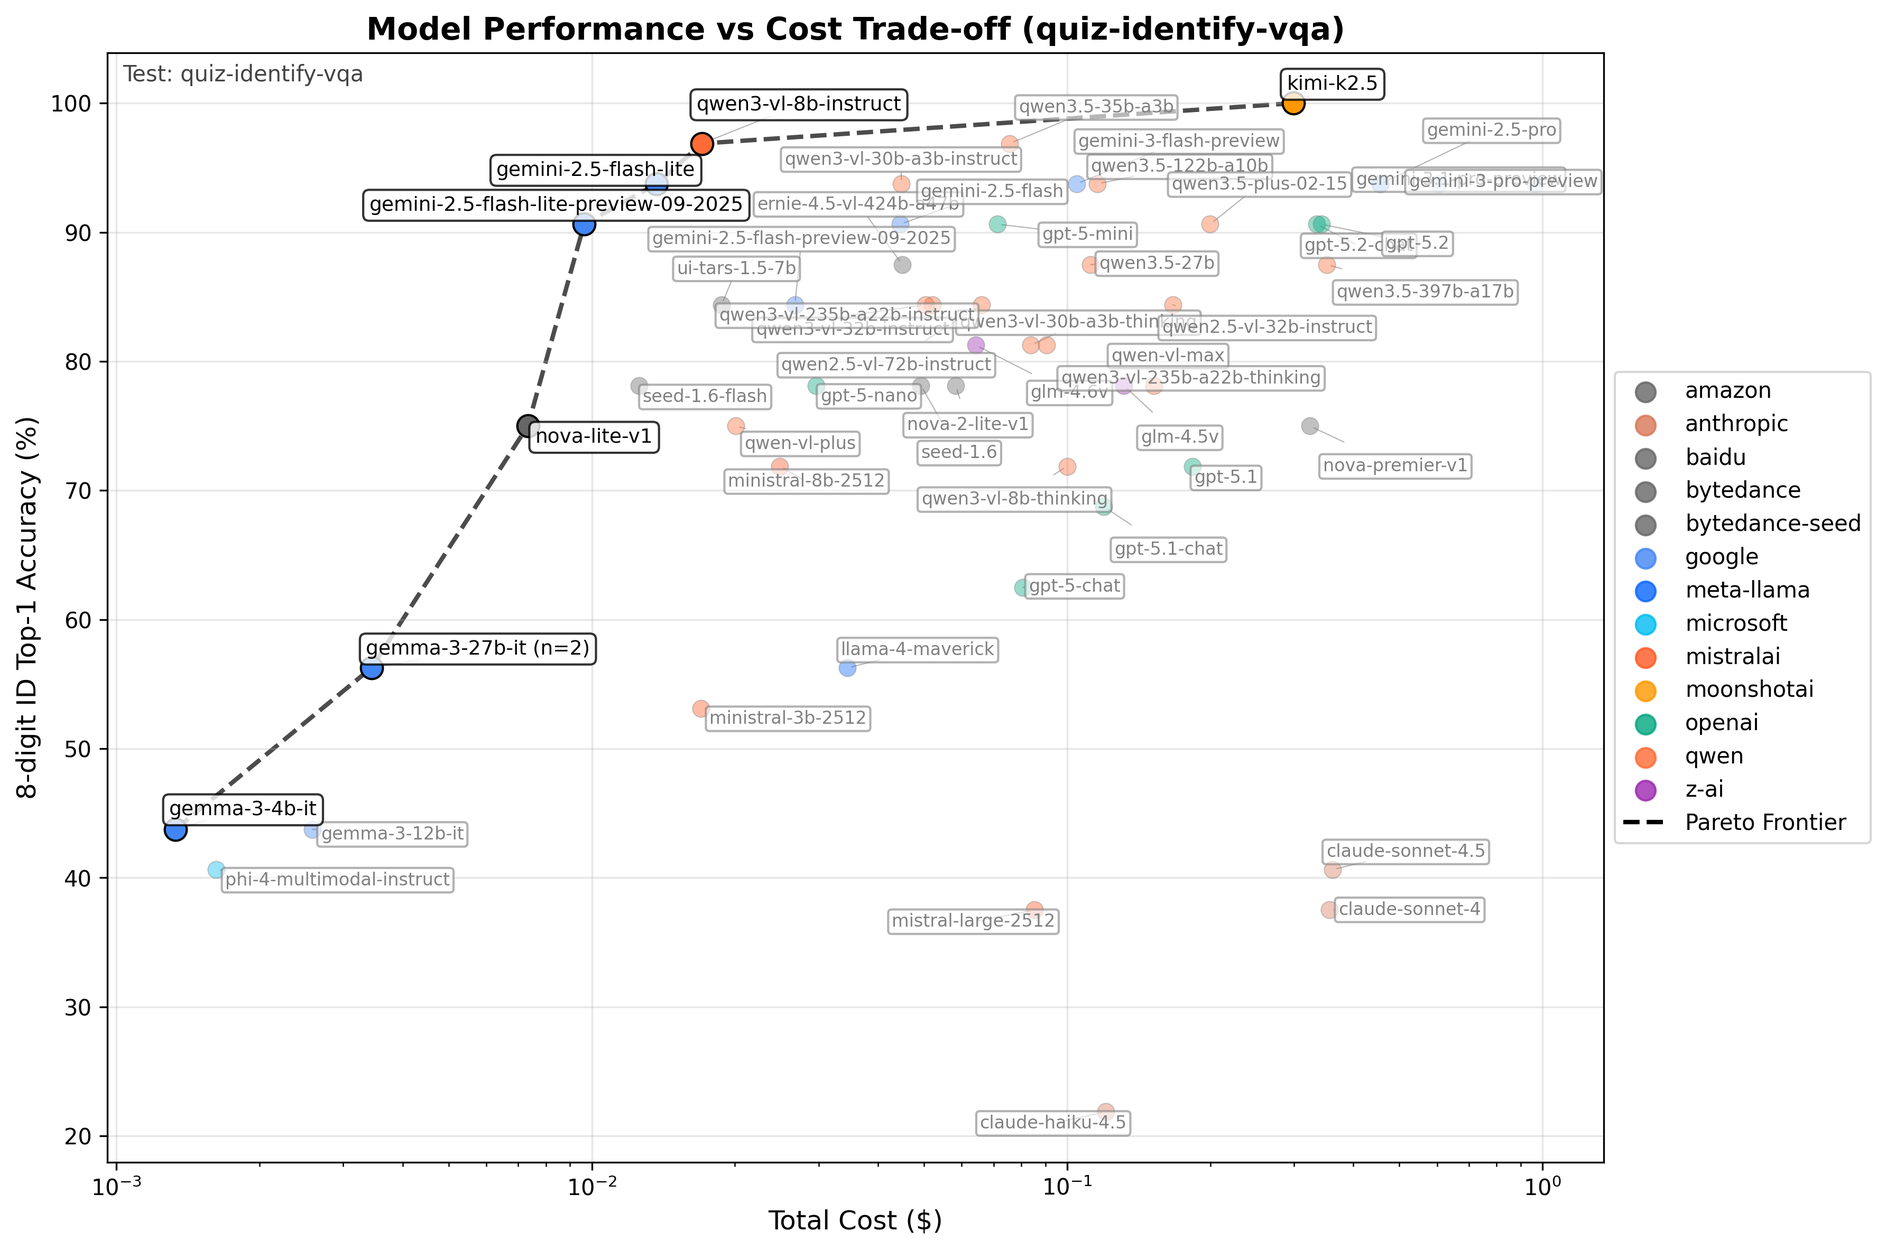
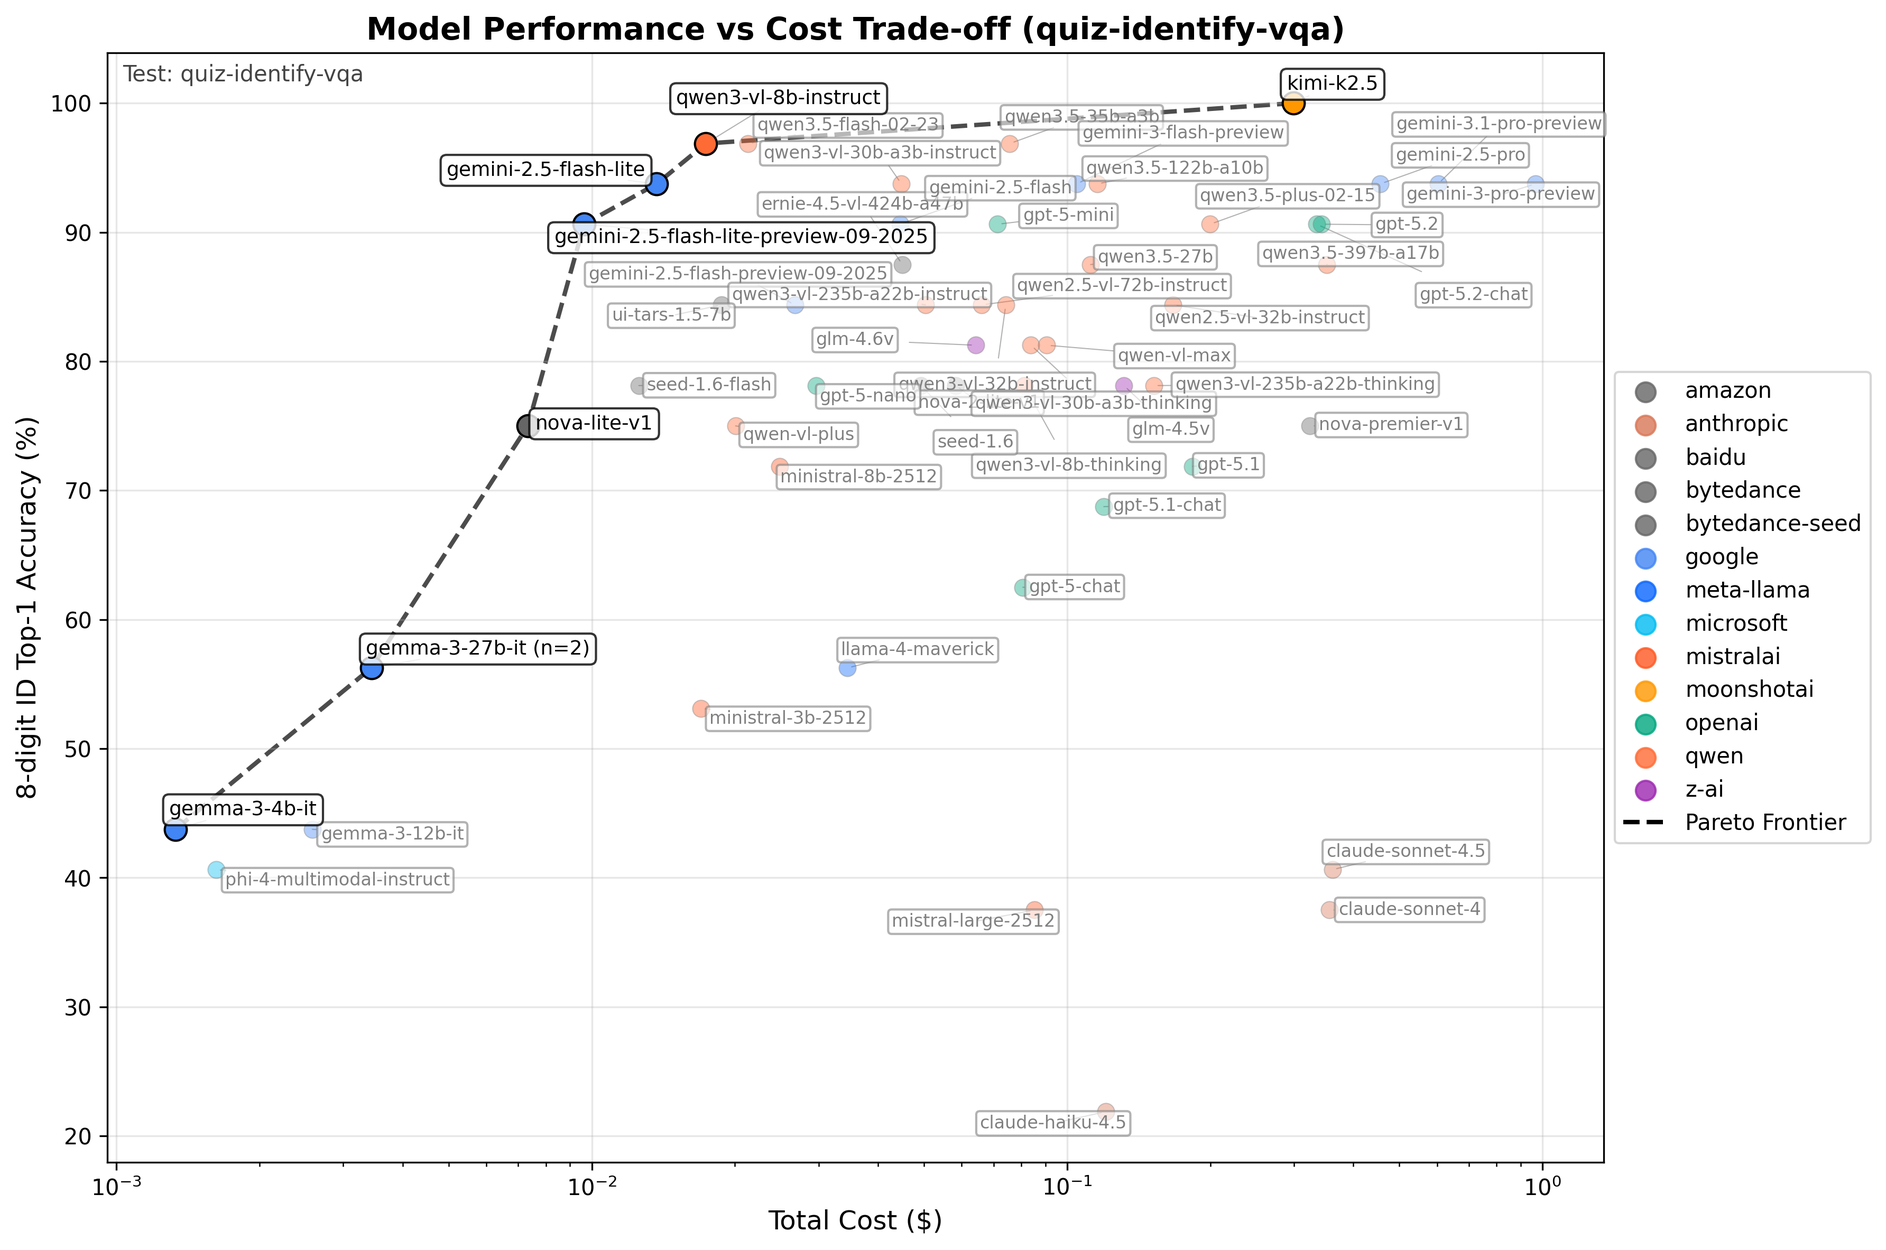
Refresh benchmark docs and Pareto artifacts

Changed region(s): [[0.1867, 0.0617, 0.84, 0.4628]]

diff --git a/BENCHMARKS.md b/BENCHMARKS.md
@@ -39,16 +39,16 @@ All VLM runs use the following consistent configuration:
 
 ## Complete Results
 
-| **Metric** | **OpenCV+CNN** | **qwen**<br>qwen3.5-35b-a3b | **qwen**<br>qwen3.5-27b | **qwen**<br>qwen3.5-122b-a10b | **qwen**<br>qwen3.5-397b-a17b | **qwen**<br>qwen3.5-plus-02-15 | **qwen**<br>qwen2.5-vl-72b-instruct | **qwen**<br>qwen-vl-plus | **qwen**<br>qwen3-vl-8b-instruct | **qwen**<br>qwen3-vl-32b-instruct | **qwen**<br>qwen3-vl-8b-thinking | **qwen**<br>qwen3-vl-30b-a3b-instruct | **qwen**<br>qwen3-vl-30b-a3b-thinking | **qwen**<br>qwen-vl-max | **qwen**<br>qwen3-vl-235b-a22b-thinking | **qwen**<br>qwen3-vl-235b-a22b-instruct | **qwen**<br>qwen2.5-vl-32b-instruct | **google**<br>gemini-3.1-pro-preview | **google**<br>gemma-3-4b-it | **google**<br>gemini-2.5-flash-lite-preview-09-2025 | **google**<br>gemini-2.5-flash-lite | **google**<br>gemma-3-27b-it | **google**<br>gemma-3-12b-it | **google**<br>gemini-3-flash-preview | **google**<br>gemini-3-pro-preview | **google**<br>gemini-2.5-flash-preview-09-2025 | **google**<br>gemini-2.5-pro | **google**<br>gemini-2.5-flash | **baidu**<br>ernie-4.5-vl-424b-a47b | **amazon**<br>nova-lite-v1 | **amazon**<br>nova-2-lite-v1 | **amazon**<br>nova-premier-v1 | **moonshotai**<br>kimi-k2.5 | **moonshotai**<br>kimi-vl-a3b-thinking:free | **bytedance-seed**<br>seed-1.6 | **bytedance-seed**<br>seed-1.6-flash | **mistralai**<br>ministral-8b-2512 | **mistralai**<br>ministral-3b-2512 | **mistralai**<br>mistral-large-2512 | **openai**<br>gpt-5.2-chat | **openai**<br>gpt-5.2 | **openai**<br>gpt-5.1-chat | **openai**<br>gpt-5.1 | **openai**<br>gpt-5-chat | **openai**<br>gpt-5-mini | **openai**<br>gpt-5-nano | **z-ai**<br>glm-4.6v | **z-ai**<br>glm-4.5v | **anthropic**<br>claude-haiku-4.5 | **anthropic**<br>claude-sonnet-4.5 | **anthropic**<br>claude-sonnet-4 | **microsoft**<br>phi-4-multimodal-instruct | **bytedance**<br>ui-tars-1.5-7b | **meta-llama**<br>llama-4-maverick |
-|:---|:---|:---|:---|:---|:---|:---|:---|:---|:---|:---|:---|:---|:---|:---|:---|:---|:---|:---|:---|:---|:---|:---|:---|:---|:---|:---|:---|:---|:---|:---|:---|:---|:---|:---|:---|:---|:---|:---|:---|:---|:---|:---|:---|:---|:---|:---|:---|:---|:---|:---|:---|:---|:---|:---|
-| LLM model size | N/A | 35A3 | 27B | 122A10 | 397A17 | ?? | 72B | ?? | 8B | 32B | 8B | 30A3 | 30A3 | ?? | 235A22 | 235A22 | 32B | ?? | 4B | ?? | ?? | 27B | 12B | ?? | ?? | ?? | ?? | ?? | 424A47 | ?? | ?? | ?? | 1000A32 | 16A3 | ?? | ?? | 8B | 3B | 675A41 | ?? | ?? | ?? | ?? | ?? | ?? | ?? | 106B | 106A12 | ?? | ?? | ?? | 5.6B | 7B | 400A17 |
-| Open-weights | N/A | Yes | Yes | Yes | Yes | No | Yes | No | Yes | Yes | Yes | Yes | Yes | No | Yes | Yes | Yes | No | Yes | No | No | Yes | Yes | No | No | No | No | No | Yes | No | No | No | Yes | Yes | No | No | Yes | Yes | Yes | No | No | No | No | No | No | No | Yes | Yes | No | No | No | Yes | Yes | Yes |
-| digit_top1 | 85.16% | 99.61% | 98.44% | 99.22% | 98.05% | 98.83% | 96.48% | 96.88% | 99.61% | 97.27% | 92.19% | 99.22% | 97.27% | 97.27% | 94.53% | 97.66% | 96.09% | 99.22% | 72.27% | 98.05% | 99.22% | 84.18% (n=2) | 75.39% | 99.22% | 99.22% | 98.05% | 99.22% | 98.83% | 98.05% | 93.36% | 97.27% | 94.53% | **100.00%** | 85.94% | 96.48% | 95.70% | 89.84% | 83.59% | 78.12% | 98.44% | 98.44% | 91.80% | 92.58% | 89.84% | 98.83% | 96.48% | 94.92% | 93.36% | 74.22% | 82.81% | 84.77% | 71.48% | 96.48% | 89.84% |
-| 8-digit id_top1 | ?? | 96.88% | 87.50% | 93.75% | 87.50% | 90.62% | 84.38% | 75.00% | 96.88% | 84.38% | 71.88% | 93.75% | 81.25% | 81.25% | 78.12% | 84.38% | 84.38% | 93.75% | 43.75% | 90.62% | 93.75% | 56.25% (n=2) | 43.75% | 93.75% | 93.75% | 84.38% | 93.75% | 90.62% | 87.50% | 75.00% | 78.12% | 75.00% | **100.00%** | 50.00% | 78.12% | 78.12% | 71.88% | 53.12% | 37.50% | 90.62% | 90.62% | 68.75% | 71.88% | 62.50% | 90.62% | 78.12% | 81.25% | 78.12% | 21.88% | 40.62% | 37.50% | 40.62% | 84.38% | 56.25% |
-| lastname_top1 | N/A | **100.00%** | 96.88% | 96.88% | **100.00%** | 96.88% | **100.00%** | **100.00%** | **100.00%** | 96.88% | 90.62% | 93.75% | 96.88% | 96.88% | **100.00%** | 96.88% | **100.00%** | **100.00%** | 93.75% | **100.00%** | 96.88% | **100.00% (n=2)** | **100.00%** | **100.00%** | **100.00%** | **100.00%** | **100.00%** | **100.00%** | 93.75% | 87.50% | **100.00%** | **100.00%** | **100.00%** | 96.88% | 93.75% | 96.88% | 93.75% | 90.62% | 87.50% | 96.88% | 96.88% | **100.00%** | **100.00%** | **100.00%** | **100.00%** | 93.75% | **100.00%** | **100.00%** | 93.75% | 96.88% | **100.00%** | **100.00%** | 96.88% | 96.88% |
-| ID Avg d_Lev | N/A | 0.0312 | 0.1250 | 0.0625 | 0.1562 | 0.0938 | 0.1562 | 0.2500 | 0.0312 | 0.2188 | 0.5000 | 0.0625 | 0.2188 | 0.2188 | 0.4688 | 0.1875 | 0.1562 | 0.0625 | 1.1875 | 0.0938 | 0.0625 | 0.9375 (n=2) | 0.9688 | 0.0625 | 0.0625 | 0.1562 | 0.0625 | 0.0938 | 0.1562 | 0.3125 | 0.2188 | 0.2500 | **0.0000** | 0.9062 | 0.2812 | 0.2812 | 0.4062 | 0.5312 | 1.2188 | 0.1250 | 0.1250 | 0.4375 | 0.5938 | 0.5312 | 0.0938 | 0.2188 | 0.1875 | 0.2188 | 1.4062 | 1.0000 | 1.0938 | 1.2188 | 0.1562 | 0.5312 |
-| Lastname Avg d_Lev | N/A | **0.0000** | 0.0312 | 0.0312 | **0.0000** | 0.0312 | **0.0000** | **0.0000** | **0.0000** | 0.0312 | 0.2812 | 0.1875 | 0.0312 | 0.0312 | **0.0000** | 0.0312 | **0.0000** | **0.0000** | 0.0938 | **0.0000** | 0.0312 | **0.0000 (n=2)** | **0.0000** | **0.0000** | **0.0000** | **0.0000** | **0.0000** | **0.0000** | 0.0938 | 0.2500 | **0.0000** | **0.0000** | **0.0000** | 0.0312 | 0.1875 | 0.0312 | 0.0938 | 0.2188 | 0.3750 | 0.0625 | 0.1562 | **0.0000** | **0.0000** | **0.0000** | **0.0000** | 0.0625 | **0.0000** | **0.0000** | 0.2188 | 0.0625 | **0.0000** | **0.0000** | 0.0312 | 0.0312 |
-| Docs detected | 90.62% (29/32) | **100.00% (32/32)** | **100.00% (32/32)** | **100.00% (32/32)** | **100.00% (32/32)** | **100.00% (32/32)** | **100.00% (32/32)** | **100.00% (32/32)** | **100.00% (32/32)** | **100.00% (32/32)** | **100.00% (32/32)** | **100.00% (32/32)** | **100.00% (32/32)** | **100.00% (32/32)** | **100.00% (32/32)** | **100.00% (32/32)** | **100.00% (32/32)** | **100.00% (32/32)** | **100.00% (32/32)** | **100.00% (32/32)** | **100.00% (32/32)** | **100.00% (32/32) (n=2)** | **100.00% (32/32)** | **100.00% (32/32)** | **100.00% (32/32)** | **100.00% (32/32)** | **100.00% (32/32)** | **100.00% (32/32)** | **100.00% (32/32)** | **100.00% (32/32)** | **100.00% (32/32)** | **100.00% (32/32)** | **100.00% (32/32)** | **100.00% (32/32)** | **100.00% (32/32)** | **100.00% (32/32)** | **100.00% (32/32)** | **100.00% (32/32)** | **100.00% (32/32)** | **100.00% (32/32)** | **100.00% (32/32)** | **100.00% (32/32)** | **100.00% (32/32)** | **100.00% (32/32)** | **100.00% (32/32)** | **100.00% (32/32)** | **100.00% (32/32)** | **100.00% (32/32)** | **100.00% (32/32)** | **100.00% (32/32)** | **100.00% (32/32)** | **100.00% (32/32)** | **100.00% (32/32)** | **100.00% (32/32)** |
-| Runtime | **~1 second** | 19 seconds | 1.7 minutes | 39 seconds | 9.6 minutes | 4.0 minutes | 19 seconds | 10 seconds | 12 seconds | 2.6 minutes | 14.4 minutes | 2.3 minutes | 6.3 minutes | 4.5 minutes | 13.9 minutes | 4.5 minutes | 2.3 minutes | 1.1 minutes | 14 seconds | 11 seconds | 11 seconds | 17 seconds (n=2) | 10 seconds | 8 seconds | 26.4 minutes | 4.4 minutes | 8.0 minutes | 2.7 minutes | 51 seconds | 14 seconds | 3.5 minutes | 6.4 minutes | 1.6 minutes | 9.5 minutes | 57 seconds | 44 seconds | 14 seconds | 18 seconds | 23 seconds | 53 seconds | 57 seconds | 5.2 minutes | 8.9 minutes | 2.8 minutes | 8.3 minutes | 10.5 minutes | 6.6 minutes | 6.2 minutes | 5.0 minutes | 5.4 minutes | 3.5 minutes | 2.1 minutes | 1.8 minutes | 2.0 minutes |
-| Cost per image | **$0.00** | $0.001184 | $0.001751 | $0.001808 | $0.005496 | $0.003124 | $0.001033 | $0.000314 | $0.000266 | $0.000814 | $0.001563 | $0.000700 | $0.001311 | $0.001415 | $0.002376 | $0.000786 | $0.002605 | $0.009424 | $0.000021 | $0.000151 | $0.000214 | $0.000054 (n=2) | $0.000040 | $0.001636 | $0.015111 | $0.000418 | $0.007125 | $0.000695 | $0.000703 | $0.000115 | $0.000911 | $0.005061 | $0.004679 | **$0.000000** | $0.000770 | $0.000196 | $0.000388 | $0.000265 | $0.001335 | $0.005232 | $0.005352 | $0.001866 | $0.002870 | $0.001260 | $0.001115 | $0.000463 | $0.001004 | $0.002057 | $0.001882 | $0.005646 | $0.005567 | $0.000025 | $0.000293 | $0.000539 |
-| Total cost | **$0.00** | $0.0758 | $0.1120 | $0.1157 | $0.3518 | $0.1999 | $0.0661 | $0.0201 | $0.0171 | $0.0521 | $0.1000 | $0.0448 | $0.0839 | $0.0906 | $0.1521 | $0.0503 | $0.1667 | $0.6031 | $0.0013 | $0.0096 | $0.0137 | $0.0034 (n=2) | $0.0026 | $0.1047 | $0.9671 | $0.0267 | $0.4560 | $0.0445 | $0.0450 | $0.0073 | $0.0583 | $0.3239 | $0.2995 | **$0.0000** | $0.0492 | $0.0126 | $0.0248 | $0.0170 | $0.0854 | $0.3348 | $0.3426 | $0.1195 | $0.1837 | $0.0807 | $0.0714 | $0.0297 | $0.0642 | $0.1316 | $0.1205 | $0.3614 | $0.3563 | $0.0016 | $0.0187 | $0.0345 |
+| **Metric** | **OpenCV+CNN** | **qwen**<br>qwen3-vl-8b-instruct | **qwen**<br>qwen3-vl-8b-thinking | **qwen**<br>qwen3-vl-32b-instruct | **qwen**<br>qwen3.5-flash-02-23 | **qwen**<br>qwen3.5-35b-a3b | **qwen**<br>qwen3.5-27b | **qwen**<br>qwen3.5-122b-a10b | **qwen**<br>qwen3.5-397b-a17b | **qwen**<br>qwen3.5-plus-02-15 | **qwen**<br>qwen2.5-vl-72b-instruct | **qwen**<br>qwen-vl-plus | **qwen**<br>qwen3-vl-30b-a3b-instruct | **qwen**<br>qwen3-vl-30b-a3b-thinking | **qwen**<br>qwen-vl-max | **qwen**<br>qwen3-vl-235b-a22b-thinking | **qwen**<br>qwen3-vl-235b-a22b-instruct | **qwen**<br>qwen2.5-vl-32b-instruct | **google**<br>gemini-3.1-pro-preview | **google**<br>gemma-3-4b-it | **google**<br>gemini-2.5-flash-lite-preview-09-2025 | **google**<br>gemini-2.5-flash-lite | **google**<br>gemma-3-27b-it | **google**<br>gemma-3-12b-it | **google**<br>gemini-3-flash-preview | **google**<br>gemini-3-pro-preview | **google**<br>gemini-2.5-flash-preview-09-2025 | **google**<br>gemini-2.5-pro | **google**<br>gemini-2.5-flash | **baidu**<br>ernie-4.5-vl-424b-a47b | **amazon**<br>nova-lite-v1 | **amazon**<br>nova-2-lite-v1 | **amazon**<br>nova-premier-v1 | **moonshotai**<br>kimi-k2.5 | **moonshotai**<br>kimi-vl-a3b-thinking:free | **bytedance-seed**<br>seed-1.6 | **bytedance-seed**<br>seed-1.6-flash | **mistralai**<br>ministral-8b-2512 | **mistralai**<br>ministral-3b-2512 | **mistralai**<br>mistral-large-2512 | **openai**<br>gpt-5.2-chat | **openai**<br>gpt-5.2 | **openai**<br>gpt-5.1-chat | **openai**<br>gpt-5.1 | **openai**<br>gpt-5-chat | **openai**<br>gpt-5-mini | **openai**<br>gpt-5-nano | **z-ai**<br>glm-4.6v | **z-ai**<br>glm-4.5v | **anthropic**<br>claude-haiku-4.5 | **anthropic**<br>claude-sonnet-4.5 | **anthropic**<br>claude-sonnet-4 | **microsoft**<br>phi-4-multimodal-instruct | **bytedance**<br>ui-tars-1.5-7b | **meta-llama**<br>llama-4-maverick |
+|:---|:---|:---|:---|:---|:---|:---|:---|:---|:---|:---|:---|:---|:---|:---|:---|:---|:---|:---|:---|:---|:---|:---|:---|:---|:---|:---|:---|:---|:---|:---|:---|:---|:---|:---|:---|:---|:---|:---|:---|:---|:---|:---|:---|:---|:---|:---|:---|:---|:---|:---|:---|:---|:---|:---|:---|
+| LLM model size | N/A | 8B | 8B | 32B | ?? | 35A3 | 27B | 122A10 | 397A17 | ?? | 72B | ?? | 30A3 | 30A3 | ?? | 235A22 | 235A22 | 32B | ?? | 4B | ?? | ?? | 27B | 12B | ?? | ?? | ?? | ?? | ?? | 424A47 | ?? | ?? | ?? | 1000A32 | 16A3 | ?? | ?? | 8B | 3B | 675A41 | ?? | ?? | ?? | ?? | ?? | ?? | ?? | 106B | 106A12 | ?? | ?? | ?? | 5.6B | 7B | 400A17 |
+| Open-weights | N/A | Yes | Yes | Yes | No | Yes | Yes | Yes | Yes | No | Yes | No | Yes | Yes | No | Yes | Yes | Yes | No | Yes | No | No | Yes | Yes | No | No | No | No | No | Yes | No | No | No | Yes | Yes | No | No | Yes | Yes | Yes | No | No | No | No | No | No | No | Yes | Yes | No | No | No | Yes | Yes | Yes |
+| digit_top1 | 85.16% | 99.61% | 96.09% | 97.27% | 99.61% | 99.61% | 98.44% | 99.22% | 98.05% | 98.83% | 96.48% | 96.88% | 99.22% | 97.27% | 97.27% | 94.53% | 97.66% | 96.09% | 99.22% | 72.27% | 98.05% | 99.22% | 84.18% (n=2) | 75.39% | 99.22% | 99.22% | 98.05% | 99.22% | 98.83% | 98.05% | 93.36% | 97.27% | 94.53% | **100.00%** | 85.94% | 96.48% | 95.70% | 89.84% | 83.59% | 78.12% | 98.44% | 98.44% | 91.80% | 92.58% | 89.84% | 98.83% | 96.48% | 94.92% | 93.36% | 74.22% | 82.81% | 84.77% | 71.48% | 96.48% | 89.84% |
+| 8-digit id_top1 | ?? | 96.88% | 78.12% | 84.38% | 96.88% | 96.88% | 87.50% | 93.75% | 87.50% | 90.62% | 84.38% | 75.00% | 93.75% | 81.25% | 81.25% | 78.12% | 84.38% | 84.38% | 93.75% | 43.75% | 90.62% | 93.75% | 56.25% (n=2) | 43.75% | 93.75% | 93.75% | 84.38% | 93.75% | 90.62% | 87.50% | 75.00% | 78.12% | 75.00% | **100.00%** | 50.00% | 78.12% | 78.12% | 71.88% | 53.12% | 37.50% | 90.62% | 90.62% | 68.75% | 71.88% | 62.50% | 90.62% | 78.12% | 81.25% | 78.12% | 21.88% | 40.62% | 37.50% | 40.62% | 84.38% | 56.25% |
+| lastname_top1 | N/A | **100.00%** | 93.75% | 96.88% | **100.00%** | **100.00%** | 96.88% | 96.88% | **100.00%** | 96.88% | **100.00%** | **100.00%** | 93.75% | 96.88% | 96.88% | **100.00%** | 96.88% | **100.00%** | **100.00%** | 93.75% | **100.00%** | 96.88% | **100.00% (n=2)** | **100.00%** | **100.00%** | **100.00%** | **100.00%** | **100.00%** | **100.00%** | 93.75% | 87.50% | **100.00%** | **100.00%** | **100.00%** | 96.88% | 93.75% | 96.88% | 93.75% | 90.62% | 87.50% | 96.88% | 96.88% | **100.00%** | **100.00%** | **100.00%** | **100.00%** | 93.75% | **100.00%** | **100.00%** | 93.75% | 96.88% | **100.00%** | **100.00%** | 96.88% | 96.88% |
+| ID Avg d_Lev | N/A | 0.0312 | 0.2500 | 0.2188 | 0.0312 | 0.0312 | 0.1250 | 0.0625 | 0.1562 | 0.0938 | 0.1562 | 0.2500 | 0.0625 | 0.2188 | 0.2188 | 0.4688 | 0.1875 | 0.1562 | 0.0625 | 1.1875 | 0.0938 | 0.0625 | 0.9375 (n=2) | 0.9688 | 0.0625 | 0.0625 | 0.1562 | 0.0625 | 0.0938 | 0.1562 | 0.3125 | 0.2188 | 0.2500 | **0.0000** | 0.9062 | 0.2812 | 0.2812 | 0.4062 | 0.5312 | 1.2188 | 0.1250 | 0.1250 | 0.4375 | 0.5938 | 0.5312 | 0.0938 | 0.2188 | 0.1875 | 0.2188 | 1.4062 | 1.0000 | 1.0938 | 1.2188 | 0.1562 | 0.5312 |
+| Lastname Avg d_Lev | N/A | **0.0000** | 0.1250 | 0.0312 | **0.0000** | **0.0000** | 0.0312 | 0.0312 | **0.0000** | 0.0312 | **0.0000** | **0.0000** | 0.1875 | 0.0312 | 0.0312 | **0.0000** | 0.0312 | **0.0000** | **0.0000** | 0.0938 | **0.0000** | 0.0312 | **0.0000 (n=2)** | **0.0000** | **0.0000** | **0.0000** | **0.0000** | **0.0000** | **0.0000** | 0.0938 | 0.2500 | **0.0000** | **0.0000** | **0.0000** | 0.0312 | 0.1875 | 0.0312 | 0.0938 | 0.2188 | 0.3750 | 0.0625 | 0.1562 | **0.0000** | **0.0000** | **0.0000** | **0.0000** | 0.0625 | **0.0000** | **0.0000** | 0.2188 | 0.0625 | **0.0000** | **0.0000** | 0.0312 | 0.0312 |
+| Docs detected | 90.62% (29/32) | **100.00% (32/32)** | **100.00% (32/32)** | **100.00% (32/32)** | **100.00% (32/32)** | **100.00% (32/32)** | **100.00% (32/32)** | **100.00% (32/32)** | **100.00% (32/32)** | **100.00% (32/32)** | **100.00% (32/32)** | **100.00% (32/32)** | **100.00% (32/32)** | **100.00% (32/32)** | **100.00% (32/32)** | **100.00% (32/32)** | **100.00% (32/32)** | **100.00% (32/32)** | **100.00% (32/32)** | **100.00% (32/32)** | **100.00% (32/32)** | **100.00% (32/32)** | **100.00% (32/32) (n=2)** | **100.00% (32/32)** | **100.00% (32/32)** | **100.00% (32/32)** | **100.00% (32/32)** | **100.00% (32/32)** | **100.00% (32/32)** | **100.00% (32/32)** | **100.00% (32/32)** | **100.00% (32/32)** | **100.00% (32/32)** | **100.00% (32/32)** | **100.00% (32/32)** | **100.00% (32/32)** | **100.00% (32/32)** | **100.00% (32/32)** | **100.00% (32/32)** | **100.00% (32/32)** | **100.00% (32/32)** | **100.00% (32/32)** | **100.00% (32/32)** | **100.00% (32/32)** | **100.00% (32/32)** | **100.00% (32/32)** | **100.00% (32/32)** | **100.00% (32/32)** | **100.00% (32/32)** | **100.00% (32/32)** | **100.00% (32/32)** | **100.00% (32/32)** | **100.00% (32/32)** | **100.00% (32/32)** | **100.00% (32/32)** |
+| Runtime | **~1 second** | 17 seconds | 1.1 minutes | 17 seconds | 3.0 minutes | 19 seconds | 1.7 minutes | 39 seconds | 9.6 minutes | 4.0 minutes | 19 seconds | 10 seconds | 2.3 minutes | 6.3 minutes | 4.5 minutes | 13.9 minutes | 4.5 minutes | 2.3 minutes | 1.1 minutes | 14 seconds | 11 seconds | 11 seconds | 17 seconds (n=2) | 10 seconds | 8 seconds | 26.4 minutes | 4.4 minutes | 8.0 minutes | 2.7 minutes | 51 seconds | 14 seconds | 3.5 minutes | 6.4 minutes | 1.6 minutes | 9.5 minutes | 57 seconds | 44 seconds | 14 seconds | 18 seconds | 23 seconds | 53 seconds | 57 seconds | 5.2 minutes | 8.9 minutes | 2.8 minutes | 8.3 minutes | 10.5 minutes | 6.6 minutes | 6.2 minutes | 5.0 minutes | 5.4 minutes | 3.5 minutes | 2.1 minutes | 1.8 minutes | 2.0 minutes |
+| Cost per image | **$0.00** | $0.000272 | $0.001269 | $0.001161 | $0.000333 | $0.001184 | $0.001751 | $0.001808 | $0.005496 | $0.003124 | $0.001033 | $0.000314 | $0.000700 | $0.001311 | $0.001415 | $0.002376 | $0.000786 | $0.002605 | $0.009424 | $0.000021 | $0.000151 | $0.000214 | $0.000054 (n=2) | $0.000040 | $0.001636 | $0.015111 | $0.000418 | $0.007125 | $0.000695 | $0.000703 | $0.000115 | $0.000911 | $0.005061 | $0.004679 | **$0.000000** | $0.000770 | $0.000196 | $0.000388 | $0.000265 | $0.001335 | $0.005232 | $0.005352 | $0.001866 | $0.002870 | $0.001260 | $0.001115 | $0.000463 | $0.001004 | $0.002057 | $0.001882 | $0.005646 | $0.005567 | $0.000025 | $0.000293 | $0.000539 |
+| Total cost | **$0.00** | $0.0174 | $0.0812 | $0.0743 | $0.0213 | $0.0758 | $0.1120 | $0.1157 | $0.3518 | $0.1999 | $0.0661 | $0.0201 | $0.0448 | $0.0839 | $0.0906 | $0.1521 | $0.0503 | $0.1667 | $0.6031 | $0.0013 | $0.0096 | $0.0137 | $0.0034 (n=2) | $0.0026 | $0.1047 | $0.9671 | $0.0267 | $0.4560 | $0.0445 | $0.0450 | $0.0073 | $0.0583 | $0.3239 | $0.2995 | **$0.0000** | $0.0492 | $0.0126 | $0.0248 | $0.0170 | $0.0854 | $0.3348 | $0.3426 | $0.1195 | $0.1837 | $0.0807 | $0.0714 | $0.0297 | $0.0642 | $0.1316 | $0.1205 | $0.3614 | $0.3563 | $0.0016 | $0.0187 | $0.0345 |

diff --git a/README.md b/README.md
@@ -14,19 +14,19 @@ The table below shows the top performing models by category. See [BENCHMARKS.md]
 
 <!-- BENCHMARK_TABLE_START -->
 
-| **Metric** | **OpenCV+CNN** | **moonshotai**<br>kimi-k2.5 | **qwen**<br>qwen3.5-35b-a3b | **google**<br>gemini-3.1-pro-preview | **google**<br>gemini-2.5-flash-lite |
+| **Metric** | **OpenCV+CNN** | **moonshotai**<br>kimi-k2.5 | **qwen**<br>qwen3-vl-8b-instruct | **qwen**<br>qwen3.5-flash-02-23 | **google**<br>gemini-3.1-pro-preview |
 |:---|:---|:---|:---|:---|:---|
-| LLM model size | N/A | 1000A32 | 35A3 | ?? | ?? |
+| LLM model size | N/A | 1000A32 | 8B | ?? | ?? |
 | Open-weights | N/A | Yes | Yes | No | No |
-| digit_top1 | 85.16% | **100.00%** | 99.61% | 99.22% | 99.22% |
-| 8-digit id_top1 | ?? | **100.00%** | 96.88% | 93.75% | 93.75% |
-| lastname_top1 | N/A | **100.00%** | **100.00%** | **100.00%** | 96.88% |
-| ID Avg d_Lev | N/A | **0.0000** | 0.0312 | 0.0625 | 0.0625 |
-| Lastname Avg d_Lev | N/A | **0.0000** | **0.0000** | **0.0000** | 0.0312 |
+| digit_top1 | 85.16% | **100.00%** | 99.61% | 99.61% | 99.22% |
+| 8-digit id_top1 | ?? | **100.00%** | 96.88% | 96.88% | 93.75% |
+| lastname_top1 | N/A | **100.00%** | **100.00%** | **100.00%** | **100.00%** |
+| ID Avg d_Lev | N/A | **0.0000** | 0.0312 | 0.0312 | 0.0625 |
+| Lastname Avg d_Lev | N/A | **0.0000** | **0.0000** | **0.0000** | **0.0000** |
 | Docs detected | 90.62% (29/32) | **100.00% (32/32)** | **100.00% (32/32)** | **100.00% (32/32)** | **100.00% (32/32)** |
-| Runtime (p) | **~1 second** | N/A | 19 seconds | 1.1 minutes | 11 seconds |
-| Cost per image | **$0.00** | $0.004679 | $0.001184 | $0.009424 | $0.000214 |
-| Total cost | **$0.00** | $0.2995 | $0.0758 | $0.6031 | $0.0137 |
+| Runtime (p) | **~1 second** | N/A | 17 seconds | 7 seconds | 1.1 minutes |
+| Cost per image | **$0.00** | $0.004679 | $0.000272 | $0.000333 | $0.009424 |
+| Total cost | **$0.00** | $0.2995 | $0.0174 | $0.0213 | $0.6031 |
 
 
 
